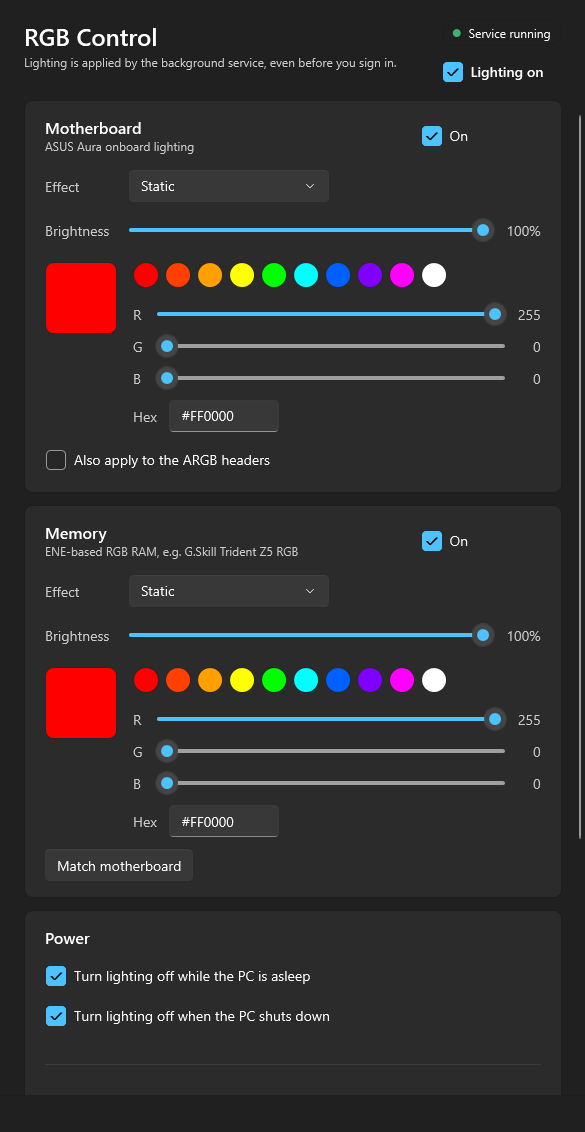
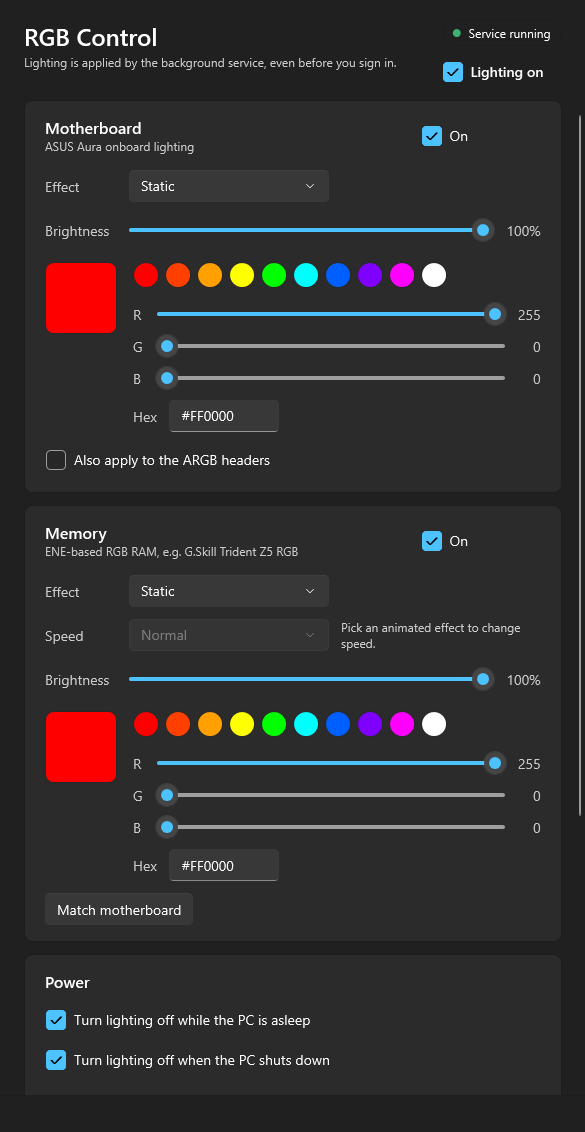
Always show RAM speed; stop saving computed color to config
- Memory card always shows the Speed option, disabled with a hint for
  static effects, so it's discoverable
- Mark EffectiveColor as JsonIgnore so config.json no longer contains
  an effectiveColor block

diff --git a/src/RgbControl.App/MainWindow.xaml b/src/RgbControl.App/MainWindow.xaml
@@ -24,11 +24,26 @@
                 <Grid Margin="0,12,0,0" Visibility="{Binding ShowSpeed, Converter={StaticResource BoolToVisibility}}">
                     <Grid.ColumnDefinitions>
                         <ColumnDefinition Width="84" />
+                        <ColumnDefinition Width="Auto" />
                         <ColumnDefinition Width="*" />
                     </Grid.ColumnDefinitions>
                     <TextBlock Text="Speed" Style="{StaticResource FieldLabel}" />
                     <ComboBox Grid.Column="1" ItemsSource="{Binding Speeds}" SelectedItem="{Binding Speed}"
+                              IsEnabled="{Binding CanChangeSpeed}"
                               DisplayMemberPath="Label" HorizontalAlignment="Left" MinWidth="200" />
+                    <TextBlock Grid.Column="2" Margin="12,0,0,0" VerticalAlignment="Center"
+                               Text="Pick an animated effect to change speed.">
+                        <TextBlock.Style>
+                            <Style TargetType="TextBlock" BasedOn="{StaticResource Hint}">
+                                <Setter Property="Visibility" Value="Collapsed" />
+                                <Style.Triggers>
+                                    <DataTrigger Binding="{Binding CanChangeSpeed}" Value="False">
+                                        <Setter Property="Visibility" Value="Visible" />
+                                    </DataTrigger>
+                                </Style.Triggers>
+                            </Style>
+                        </TextBlock.Style>
+                    </TextBlock>
                 </Grid>
 
                 <StackPanel Visibility="{Binding ShowColor, Converter={StaticResource BoolToVisibility}}">

diff --git a/src/RgbControl.App/ViewModels.cs b/src/RgbControl.App/ViewModels.cs
@@ -117,12 +117,16 @@ public sealed class DeviceLightingViewModel : ObservableObject
     }
 
     public bool ShowColor => Enabled && Mode.UsesColor;
-    public bool ShowSpeed => Enabled && SupportsSpeed && Mode.IsAnimated;
+
+    /// <summary>Speed stays visible on devices that support it, so it's discoverable; it's only adjustable for animated effects.</summary>
+    public bool ShowSpeed => Enabled && SupportsSpeed;
+    public bool CanChangeSpeed => Mode.IsAnimated;
 
     private void RaiseVisibility()
     {
         OnPropertyChanged(nameof(ShowColor));
         OnPropertyChanged(nameof(ShowSpeed));
+        OnPropertyChanged(nameof(CanChangeSpeed));
     }
 }
 

diff --git a/src/RgbControl.Core/LightingConfig.cs b/src/RgbControl.Core/LightingConfig.cs
@@ -68,6 +68,7 @@ public sealed class MotherboardLighting
     public bool IncludeAddressableHeaders { get; set; } = true;
 
     /// <summary>The color actually sent to the controller.</summary>
+    [JsonIgnore]
     public Rgb EffectiveColor => Rgb.Parse(Color).Scale(Brightness);
 }
 
@@ -83,6 +84,7 @@ public sealed class RamLighting
 
     public EffectSpeed Speed { get; set; } = EffectSpeed.Normal;
 
+    [JsonIgnore]
     public Rgb EffectiveColor => Rgb.Parse(Color).Scale(Brightness);
 }
 
